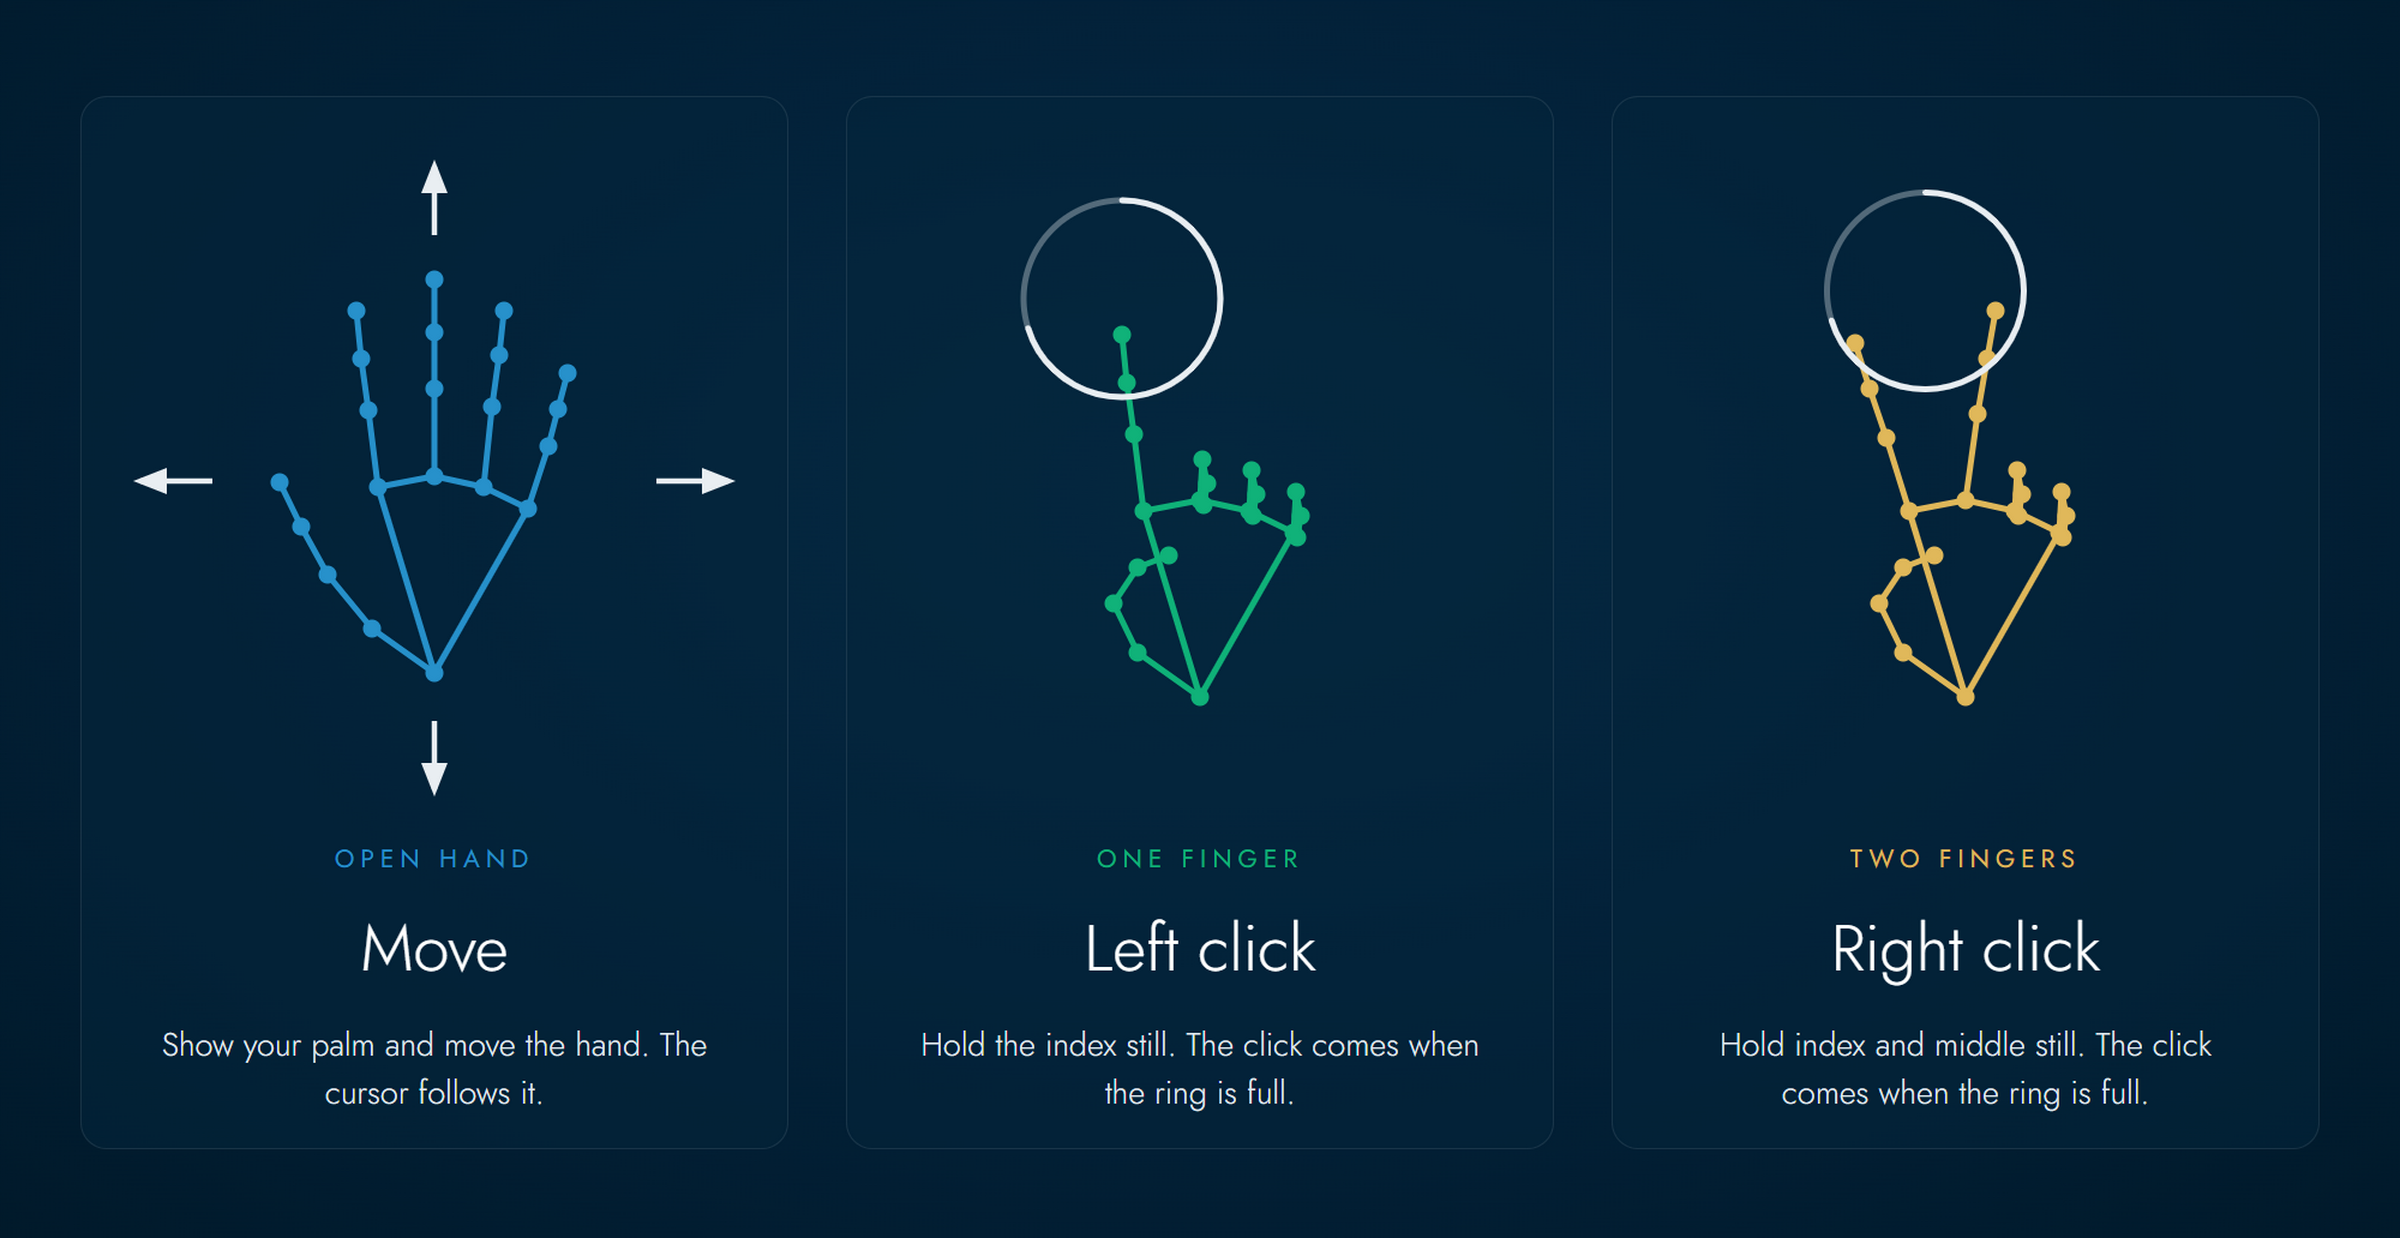
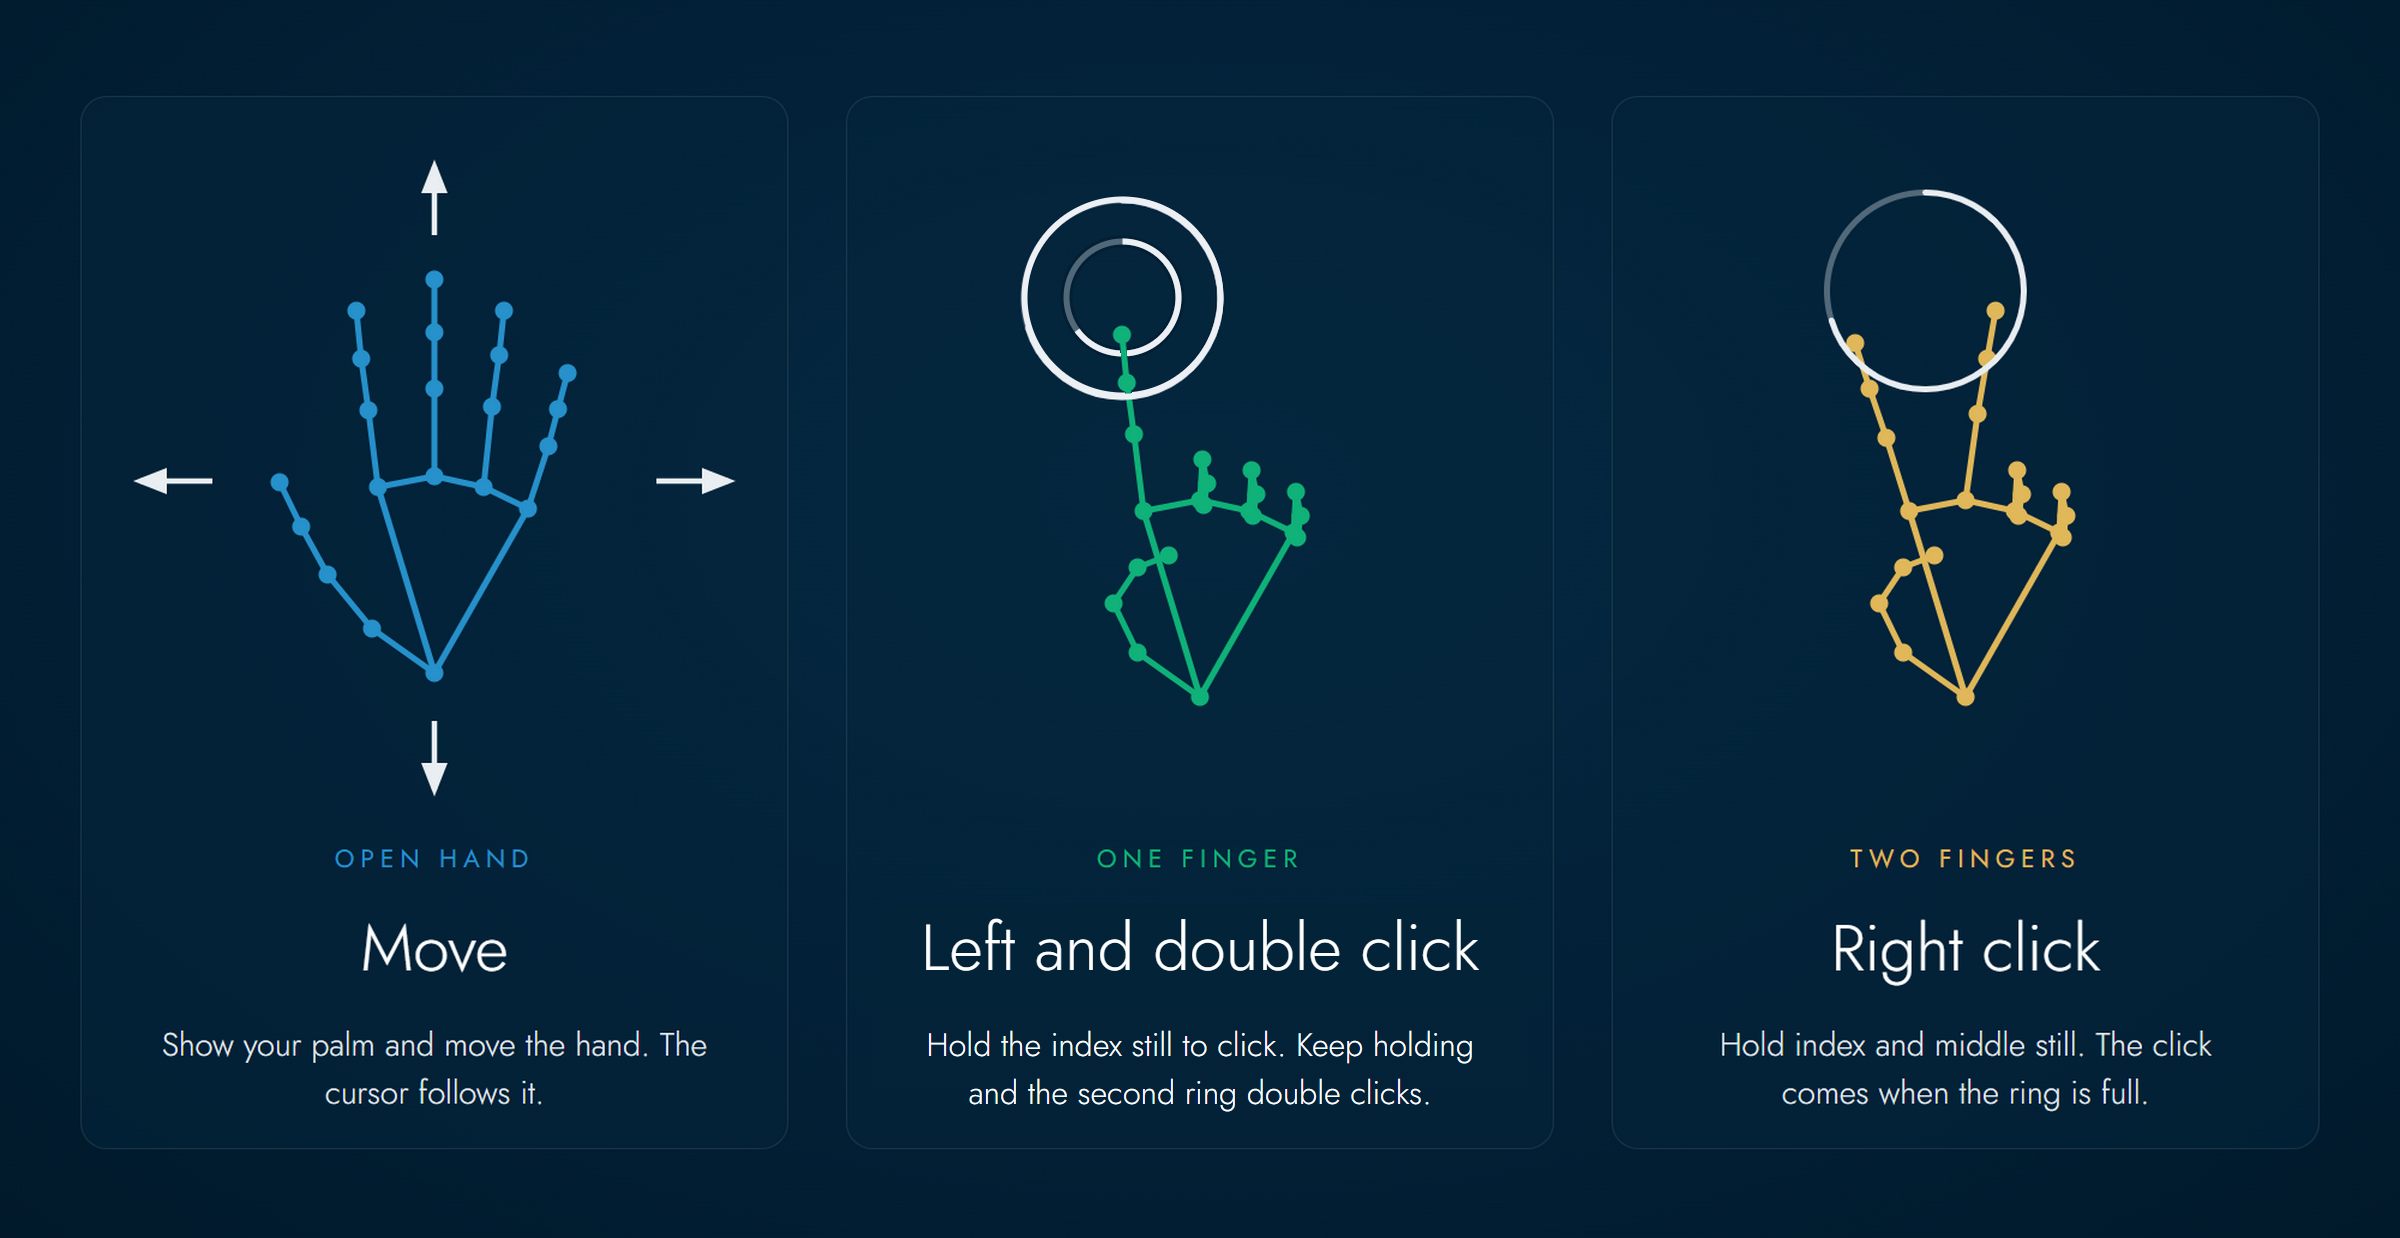
Pose drawings show the double click: a second ring inside the first one

diff --git a/web/download.html b/web/download.html
@@ -202,7 +202,7 @@
       <a href="https://github.com/vladpereverzyev/leviate/tree/main/desktop" target="_blank" rel="noopener">Full guide</a></p>
       <div class="poses">
         <img src="img/pose-move.png" alt="Open hand: move the cursor" width="710" height="1054" loading="lazy">
-        <img src="img/pose-left-click.png" alt="One finger held still: left click" width="710" height="1054" loading="lazy">
+        <img src="img/pose-left-click.png" alt="One finger held still: left click, then double click" width="710" height="1054" loading="lazy">
         <img src="img/pose-right-click.png" alt="Two fingers held still: right click" width="710" height="1054" loading="lazy">
       </div>
     </section>

diff --git a/README.es.md b/README.es.md
@@ -206,7 +206,7 @@ Descárgala de la [última versión](https://github.com/vladpereverzyev/leviate/
 `-macos-arm64.dmg` (Apple silicon), `-macos-x64.dmg` (Intel) o `-linux-x64.AppImage`.
 Guía completa en [desktop](desktop/) (en inglés).
 
-![Las poses del módulo Mouse: mano abierta mueve el cursor, un dedo quieto hace clic izquierdo, dos dedos clic derecho](docs/mouse-gestures.png)
+![Las poses del módulo Mouse: mano abierta mueve el cursor, un dedo quieto hace clic izquierdo y luego doble clic, dos dedos clic derecho](docs/mouse-gestures.png)
 
 ## Archivos compatibles
 

diff --git a/README.de.md b/README.de.md
@@ -204,7 +204,7 @@ Download im [neuesten Release](https://github.com/vladpereverzyev/leviate/releas
 `-macos-arm64.dmg` (Apple silicon), `-macos-x64.dmg` (Intel) oder `-linux-x64.AppImage`.
 Vollständige Anleitung in [desktop](desktop/) (auf Englisch).
 
-![Die Posen des Moduls Mouse: offene Hand bewegt den Cursor, ein ruhiger Finger klickt links, zwei Finger rechts](docs/mouse-gestures.png)
+![Die Posen des Moduls Mouse: offene Hand bewegt den Cursor, ein ruhiger Finger klickt links und dann doppelt, zwei Finger rechts](docs/mouse-gestures.png)
 
 ## Unterstützte Dateien
 

diff --git a/README.fr.md b/README.fr.md
@@ -211,7 +211,7 @@ Téléchargez-la depuis la [dernière version](https://github.com/vladpereverzye
 `-macos-arm64.dmg` (Apple silicon), `-macos-x64.dmg` (Intel) ou `-linux-x64.AppImage`.
 Guide complet dans [desktop](desktop/) (en anglais).
 
-![Les poses du module Mouse : main ouverte déplace le curseur, un doigt immobile clic gauche, deux doigts clic droit](docs/mouse-gestures.png)
+![Les poses du module Mouse : main ouverte déplace le curseur, un doigt immobile clic gauche puis double clic, deux doigts clic droit](docs/mouse-gestures.png)
 
 ## Fichiers pris en charge
 

diff --git a/README.it.md b/README.it.md
@@ -203,7 +203,7 @@ Scaricala dall'[ultima release](https://github.com/vladpereverzyev/leviate/relea
 `-macos-arm64.dmg` (Apple silicon), `-macos-x64.dmg` (Intel) o `-linux-x64.AppImage`.
 Guida completa in [desktop](desktop/) (in inglese).
 
-![Le pose del modulo Mouse: mano aperta sposta il cursore, un dito fermo fa clic sinistro, due dita clic destro](docs/mouse-gestures.png)
+![Le pose del modulo Mouse: mano aperta sposta il cursore, un dito fermo fa clic sinistro e poi doppio clic, due dita clic destro](docs/mouse-gestures.png)
 
 ## File supportati
 

diff --git a/README.md b/README.md
@@ -196,7 +196,7 @@ Download it from the [latest release](https://github.com/vladpereverzyev/leviate
 `-macos-arm64.dmg` (Apple silicon), `-macos-x64.dmg` (Intel) or `-linux-x64.AppImage`.
 Full guide in [desktop](desktop/).
 
-![The Mouse poses: open hand moves the cursor, one finger held still clicks left, two fingers click right](docs/mouse-gestures.png)
+![The Mouse poses: open hand moves the cursor, one finger held still clicks left and then double clicks, two fingers click right](docs/mouse-gestures.png)
 
 ## Supported files
 

diff --git a/desktop/README.md b/desktop/README.md
@@ -81,7 +81,7 @@ other way round.
 
 ## Mouse
 
-![The Mouse poses: open hand moves the cursor, one finger held still clicks left, two fingers click right](../docs/mouse-gestures.png)
+![The Mouse poses: open hand moves the cursor, one finger held still clicks left and then double clicks, two fingers click right](../docs/mouse-gestures.png)
 
 | Pose | What it does |
 | --- | --- |
